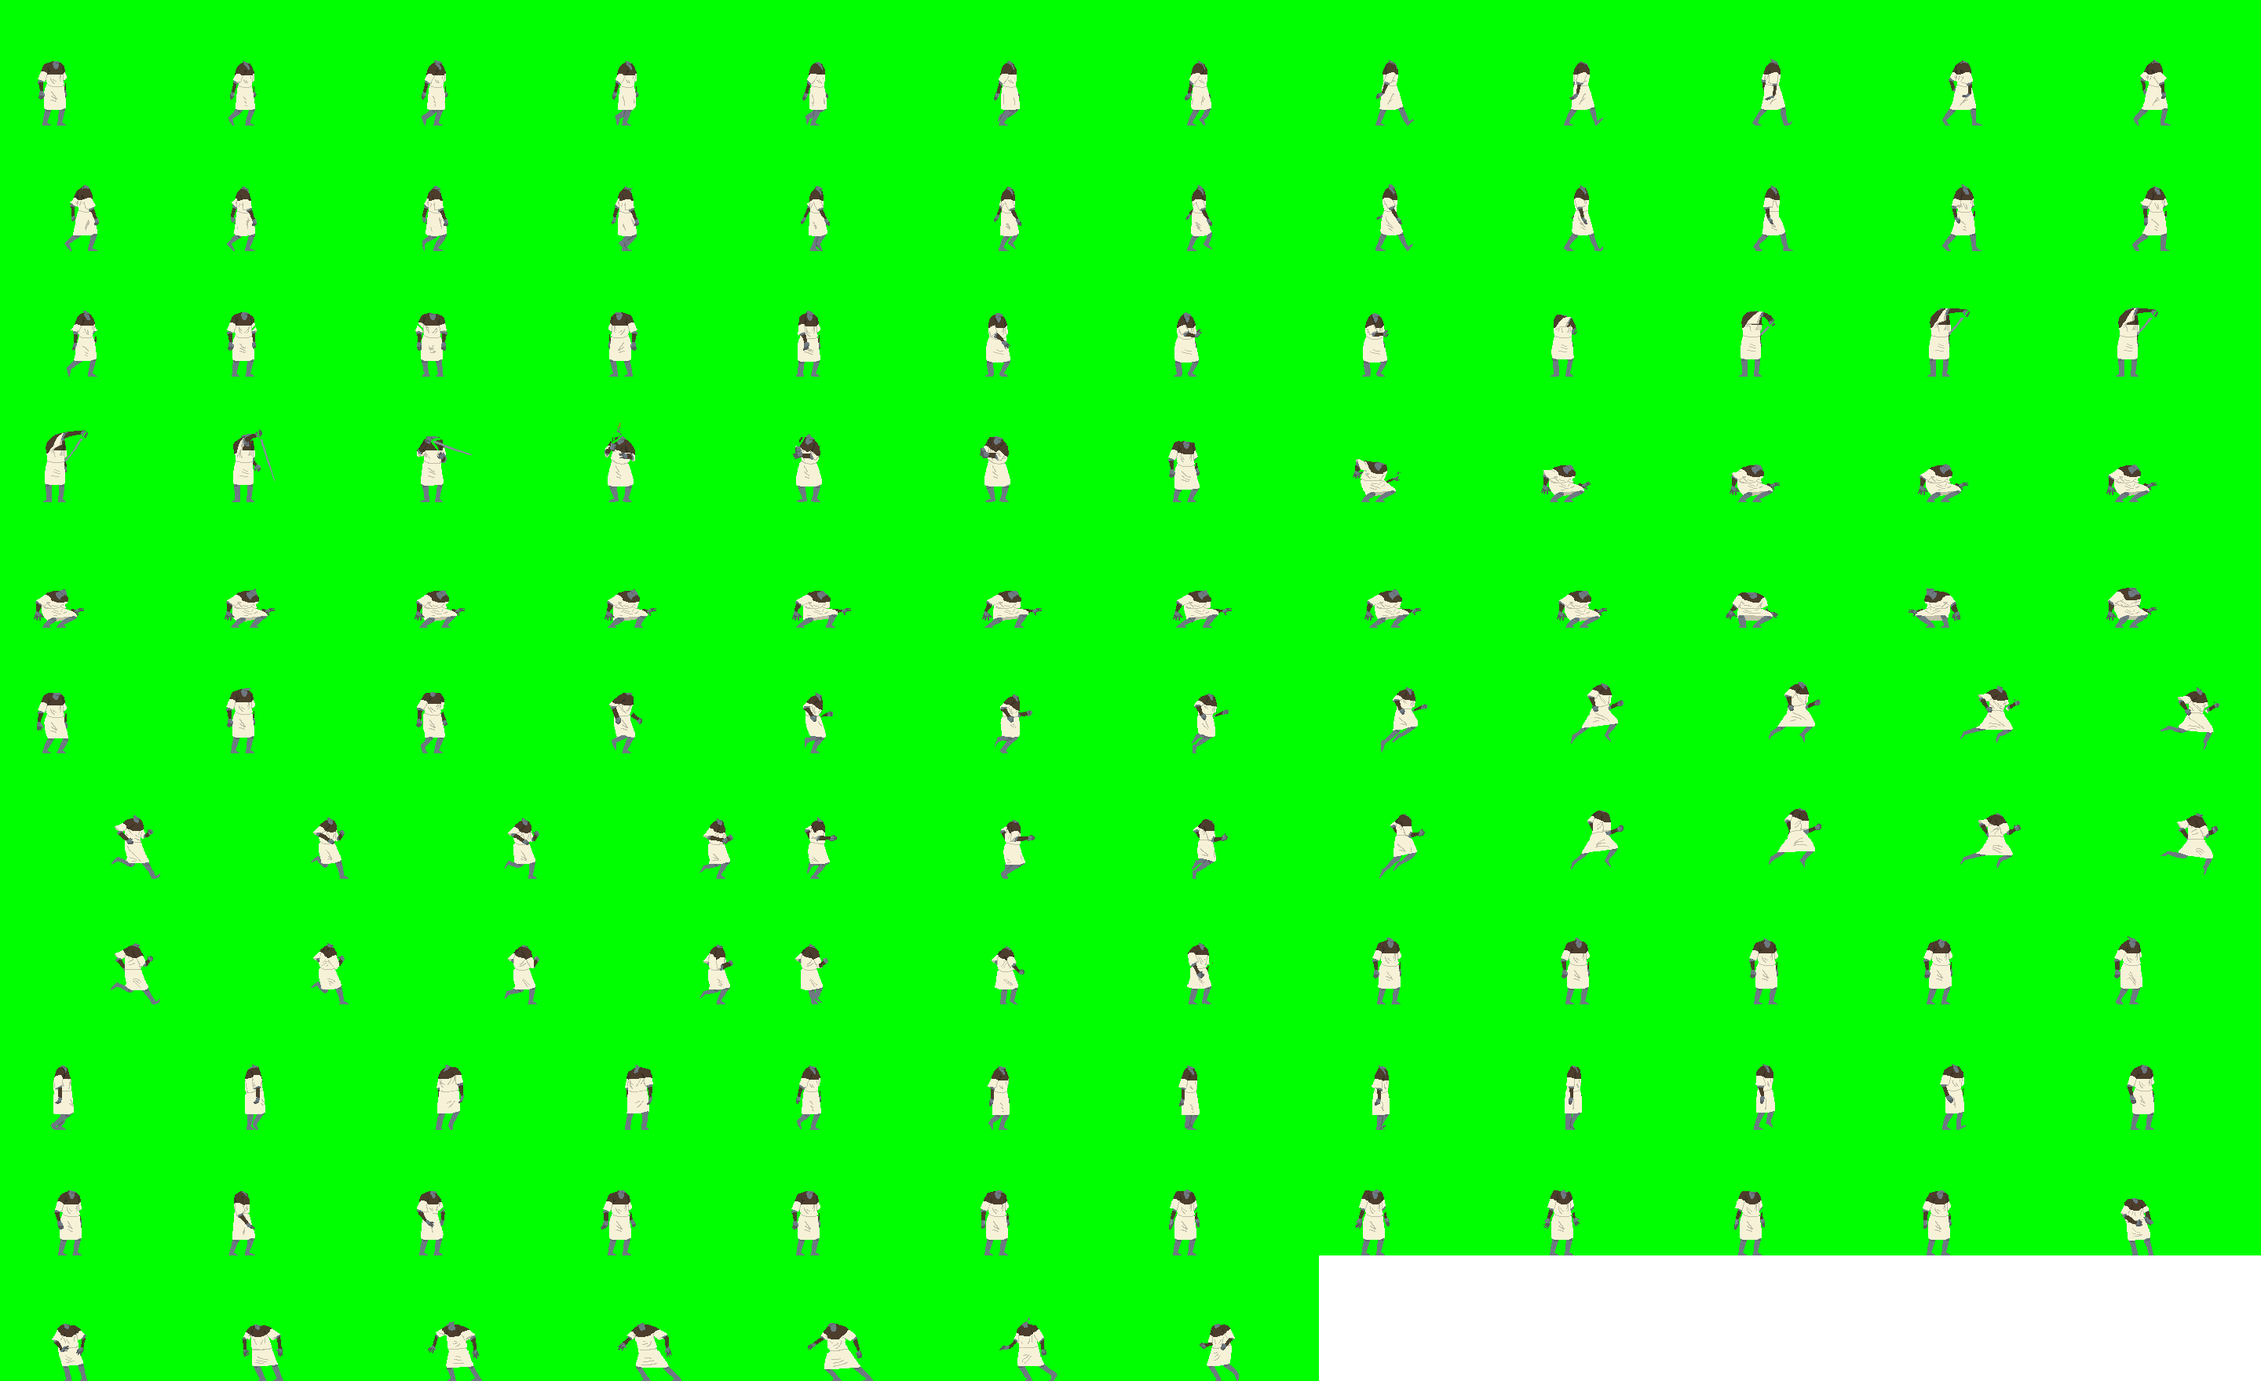
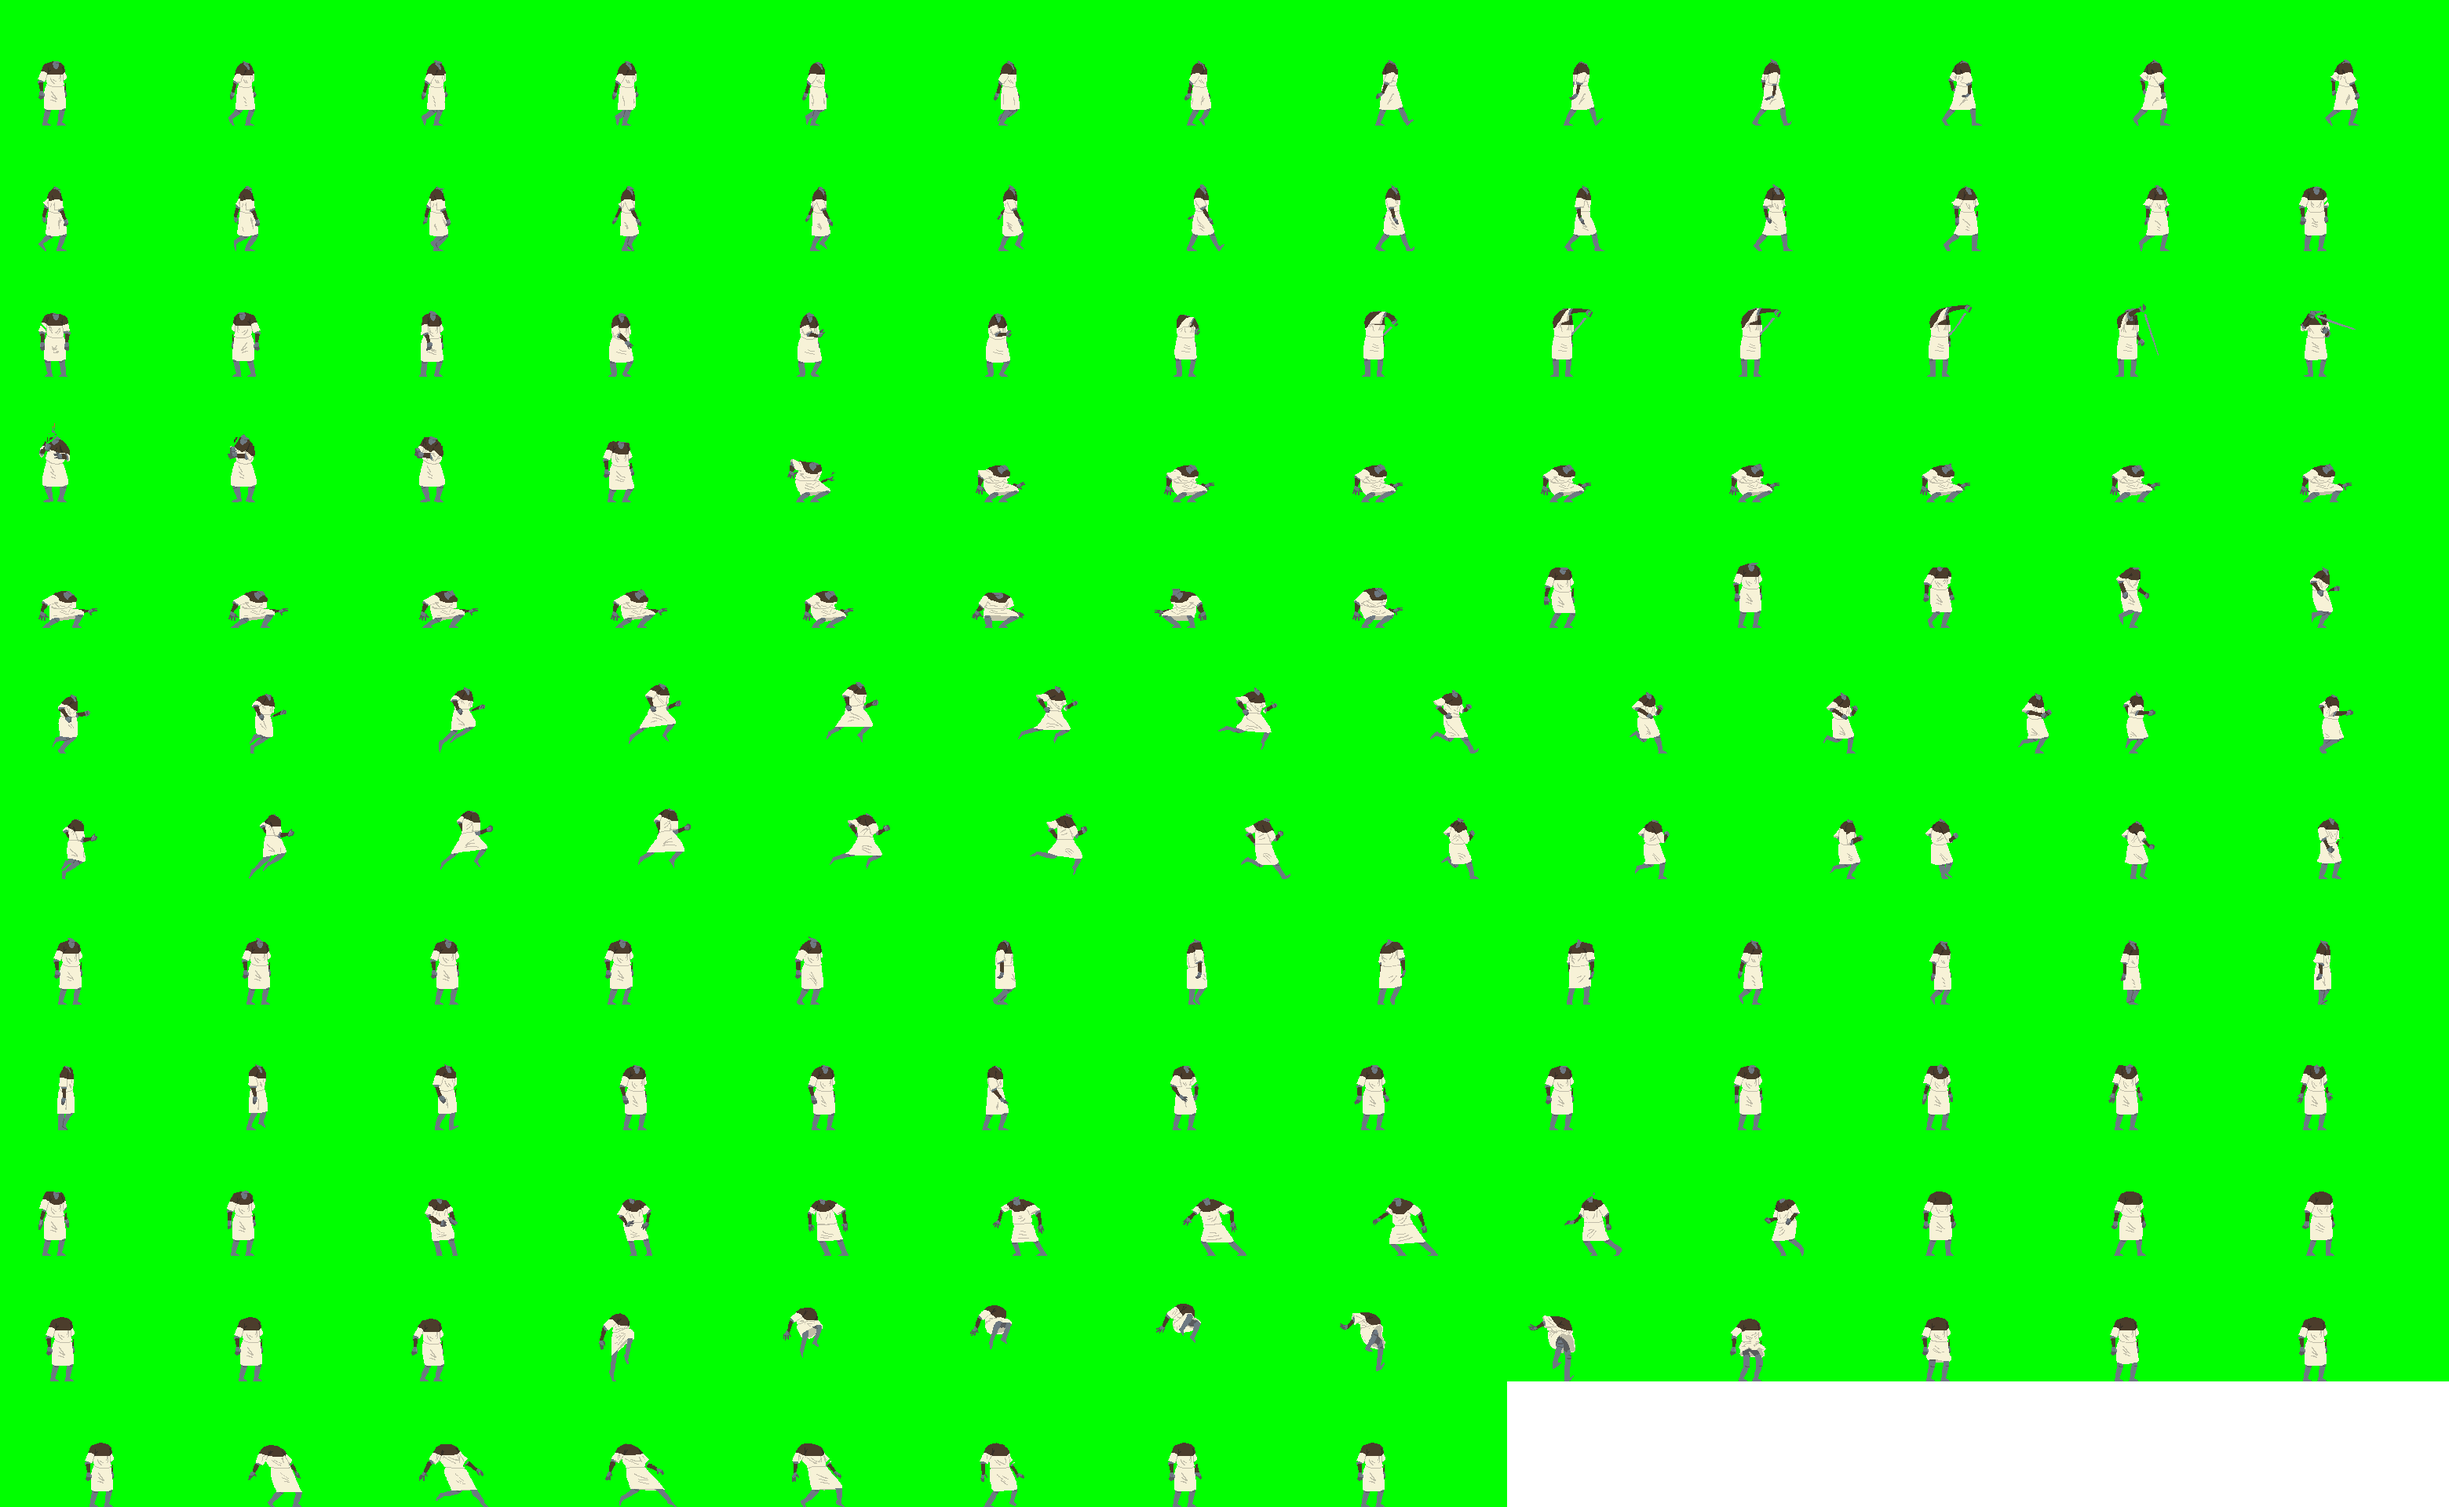
WCP: new main moves added

diff --git a/scripts/remove_sword.py b/scripts/remove_sword.py
@@ -1,0 +1,27 @@
+import sys
+import itertools
+from PIL import Image
+
+REMOVE = False
+SWORD_COLORS = (150, 161, 170, 255), (43, 54, 62, 255)
+GREEN = (0, 255, 0, 255)
+
+file = (
+    "D:/Works/code/GitHub/theWhiteCrowParrot/whitecrowparrot/"
+    "animations/whitecrow/exploration_sword.png")
+img = Image.open(file)
+img = img.convert("RGBA")
+
+pixdata = img.load()
+
+# Clean the background noise, if color != white, then set to black.
+
+for y, x in itertools.product(range(img.size[1]), range(img.size[0])):
+    if REMOVE:
+        if pixdata[x, y] in SWORD_COLORS:
+            pixdata[x, y] = GREEN
+    else:
+        if pixdata[x, y] not in SWORD_COLORS:
+            pixdata[x, y] = GREEN
+
+img.save(file)
